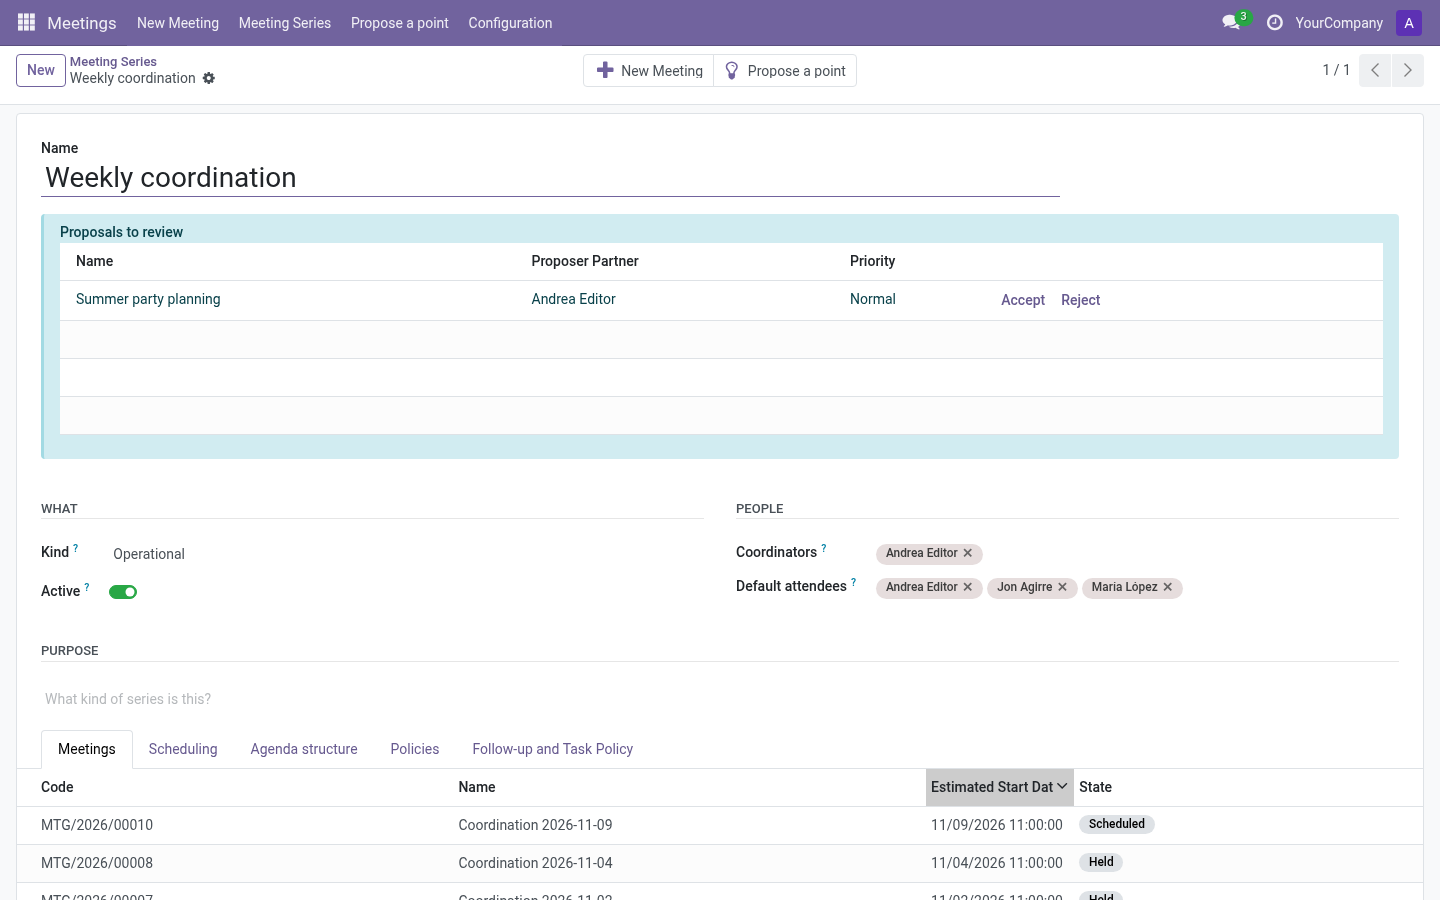
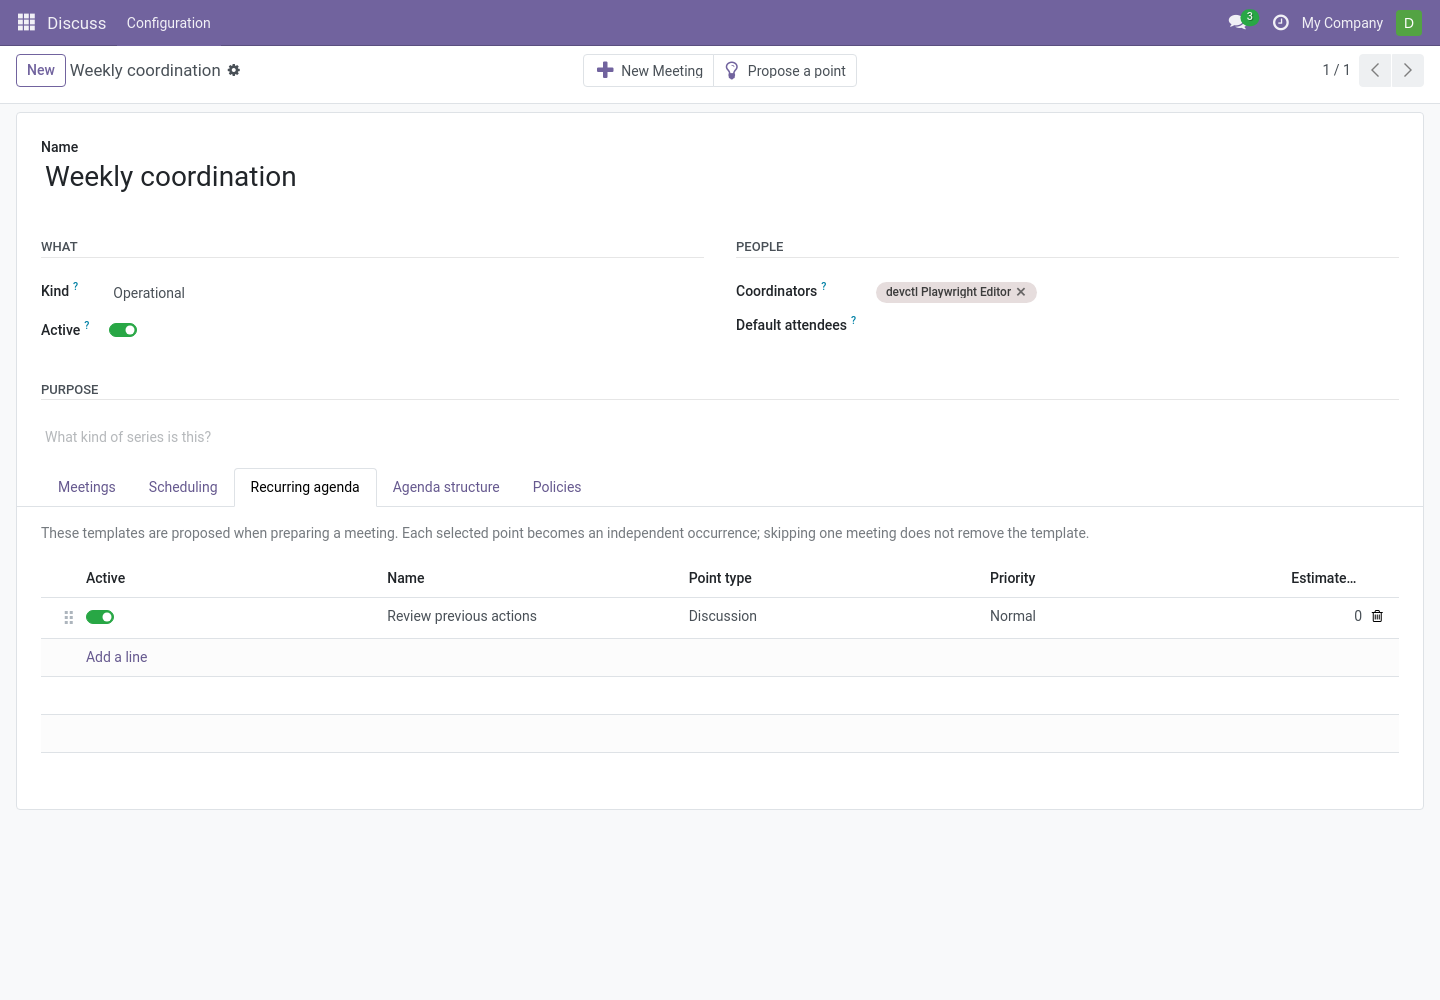
docs: complete recurring agenda guides and translations

diff --git a/docs/user_es/user/prepare-meeting.md b/docs/user_es/user/prepare-meeting.md
@@ -13,6 +13,8 @@ aplican automáticamente; no hay que confirmarlos con otro botón.
 
 ![Asistente de reunión: fecha, hora, título y duración](../img/new-meeting-when.png)
 
+![Asistente de reunión: plantillas recurrentes seleccionadas](../img/recurring-agenda-selection.png)
+
 1. **Serie** — elige una o déjala vacía para una reunión independiente. Al elegir
    una serie se aplican sus sugerencias; si cambias de serie, se actualizan sin
    perder tus ediciones.
@@ -27,10 +29,15 @@ aplican automáticamente; no hay que confirmarlos con otro botón.
    reloj ámbar para **Posponerlo** o la cruz roja para **Descartarlo**. Se muestran
    el tipo, la prioridad y los minutos estimados cuando están disponibles. Con
    política *Automática*, los puntos sin terminar ya vienen incluidos.
-5. **Agenda** — añade puntos ahora (o después). La estimación de minutos
-   seleccionados incluye los puntos que añadas y los que hayas aceptado de
-   reuniones anteriores. Todavía no incluye los puntos estructurales que la
-   serie pueda añadir automáticamente.
+5. **Agenda** — las plantillas recurrentes activas de la serie aparecen
+   seleccionadas. Desmarca una para omitirla en esta reunión; seguirá en la
+   serie para las siguientes. Cada plantilla incluida crea un punto
+   independiente enlazado con su ocurrencia anterior más reciente que se haya
+   incluido, aunque alguna reunión intermedia la omitiera. También puedes añadir
+   otros puntos ahora (o después). La estimación incluye los puntos recurrentes
+   seleccionados, los que añadas y los que aceptes de reuniones anteriores.
+   Todavía no incluye los puntos estructurales que la serie pueda añadir
+   automáticamente.
 6. **Revisión** — comprueba los datos y la agenda. Los puntos que continúan
    muestran el título y, debajo, la decisión y otros datos, además de su tiempo
    total estimado. El resumen de agenda incluye los puntos automáticos cuando la

diff --git a/docs/user/user/prepare-meeting.md b/docs/user/user/prepare-meeting.md
@@ -13,6 +13,8 @@ series; there is no separate confirmation button.
 
 ![Meeting wizard: date, time, title and duration](../img/new-meeting-when.png)
 
+![Meeting wizard: recurring agenda templates selected by default](../img/recurring-agenda-selection.png)
+
 1. **Series** — pick one, or leave empty for a standalone meeting. Choosing a
    series applies its suggestions automatically; changing series refreshes
    those suggestions while keeping your edits.
@@ -27,9 +29,14 @@ series; there is no separate confirmation button.
    clock to **Postpone** it, or the red cross to **Discard** it permanently.
    Type, priority and estimated minutes are shown where available. If the
    policy is *Automatic*, unfinished points are already included.
-5. **Agenda** — add points now (or later). The selected-minutes estimate
-   includes points you add and continuing points you accepted. It does not yet
-   include structural points the series may add automatically.
+5. **Agenda** — active recurring templates from the selected series start
+   selected. Clear a template to skip it for this meeting; it remains on the
+   series for later meetings. Each included template creates a separate point
+   occurrence linked to its most recent earlier included occurrence, even if a
+   meeting in between skipped it. Add other points now (or later). The
+   selected-minutes estimate includes selected recurring points, points you add
+   and continuing points you accepted. It does not yet include structural
+   points the series may add automatically.
 6. **Review** — check the meeting details and agenda. Continuing points show
    their title with decision and other metadata below it, plus a separate total
    estimate. The agenda summary includes automatic structural points when the

diff --git a/docs/user_es/admin/series.md b/docs/user_es/admin/series.md
@@ -113,6 +113,17 @@ vincular la serie nueva a un proyecto existente o crear uno para ella. En el
 formulario de la serie se añade la página **Política de seguimientos y tareas**;
 ver [Project](../integrations/project.md#política-de-tareas).
 
+### Plantillas de agenda recurrentes
+
+En **Agenda recurrente**, los editores pueden añadir plantillas, cambiar su tipo
+de punto, prioridad y estimación, reordenarlas o desactivarlas. Una estimación
+de cero usa el valor predeterminado de la serie o la empresa. Las plantillas
+activas se proponen y aparecen seleccionadas al preparar cada nueva reunión de
+la serie. Estos ajustes afectan a las reuniones que se creen después; no
+reescriben las reuniones existentes.
+
+![Plantillas de agenda recurrentes de una serie](../img/series-form.png)
+
 ## Botones y propuestas
 
 - **Nueva reunión** — abre el asistente de creación de reuniones con esta serie

diff --git a/docs/user/admin/series.md b/docs/user/admin/series.md
@@ -108,6 +108,16 @@ new series to an existing project or create a project for it. A
 **Follow-up and Task Policy** page is added to the series form — see
 [Project](../integrations/project.md#task-policy).
 
+### Recurring agenda templates
+
+On **Recurring agenda**, editors can add templates, change their point type,
+priority and estimate, reorder them, or deactivate them. Active templates are
+proposed and selected by default when preparing each new meeting in the series.
+An estimate of zero uses the series or company default. These settings affect
+meetings created afterwards; they do not rewrite meetings that already exist.
+
+![Recurring agenda templates on a series](../img/series-form.png)
+
 ## Buttons and proposals
 
 - **New Meeting** — opens the meeting creation wizard pre-loaded with this series.
